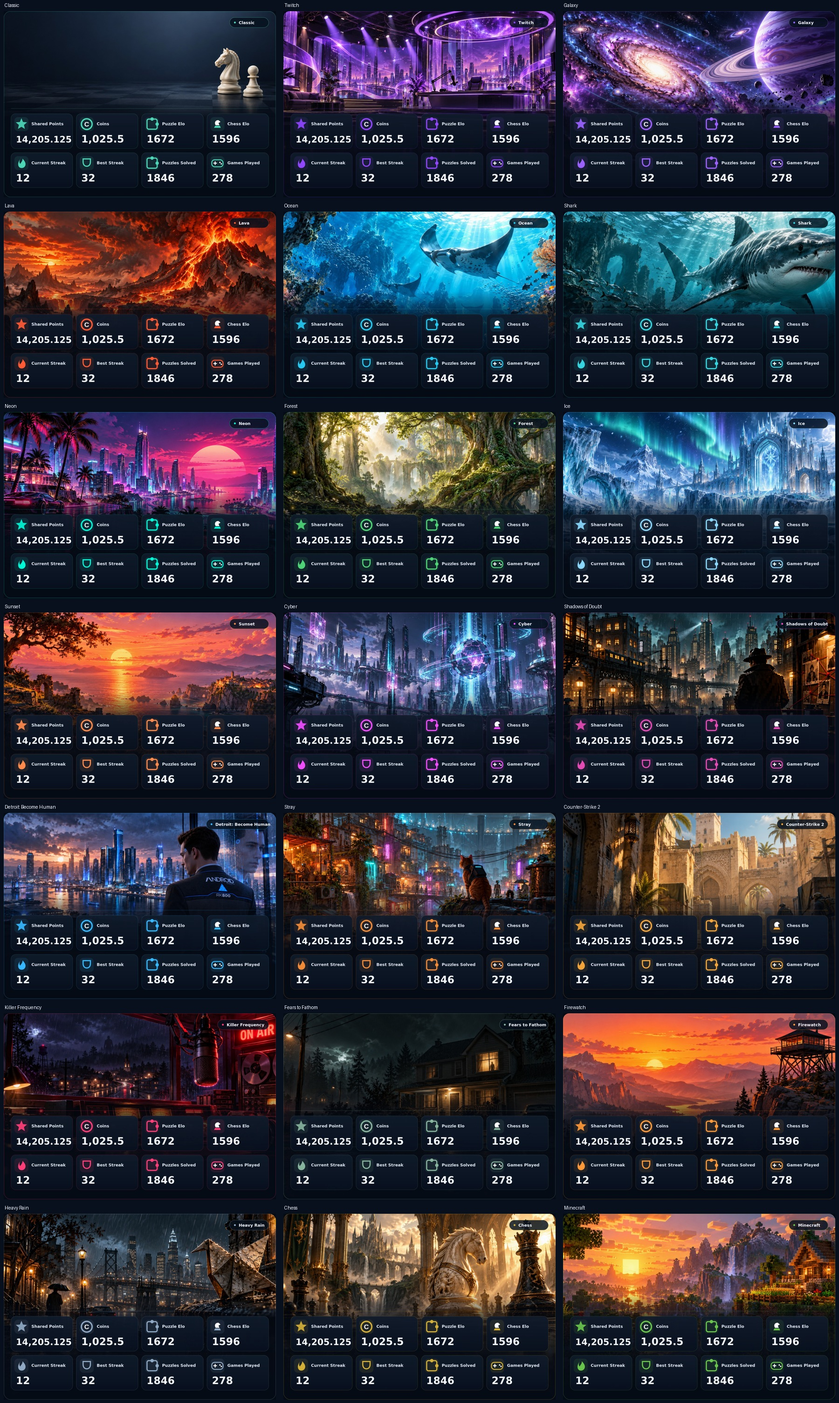
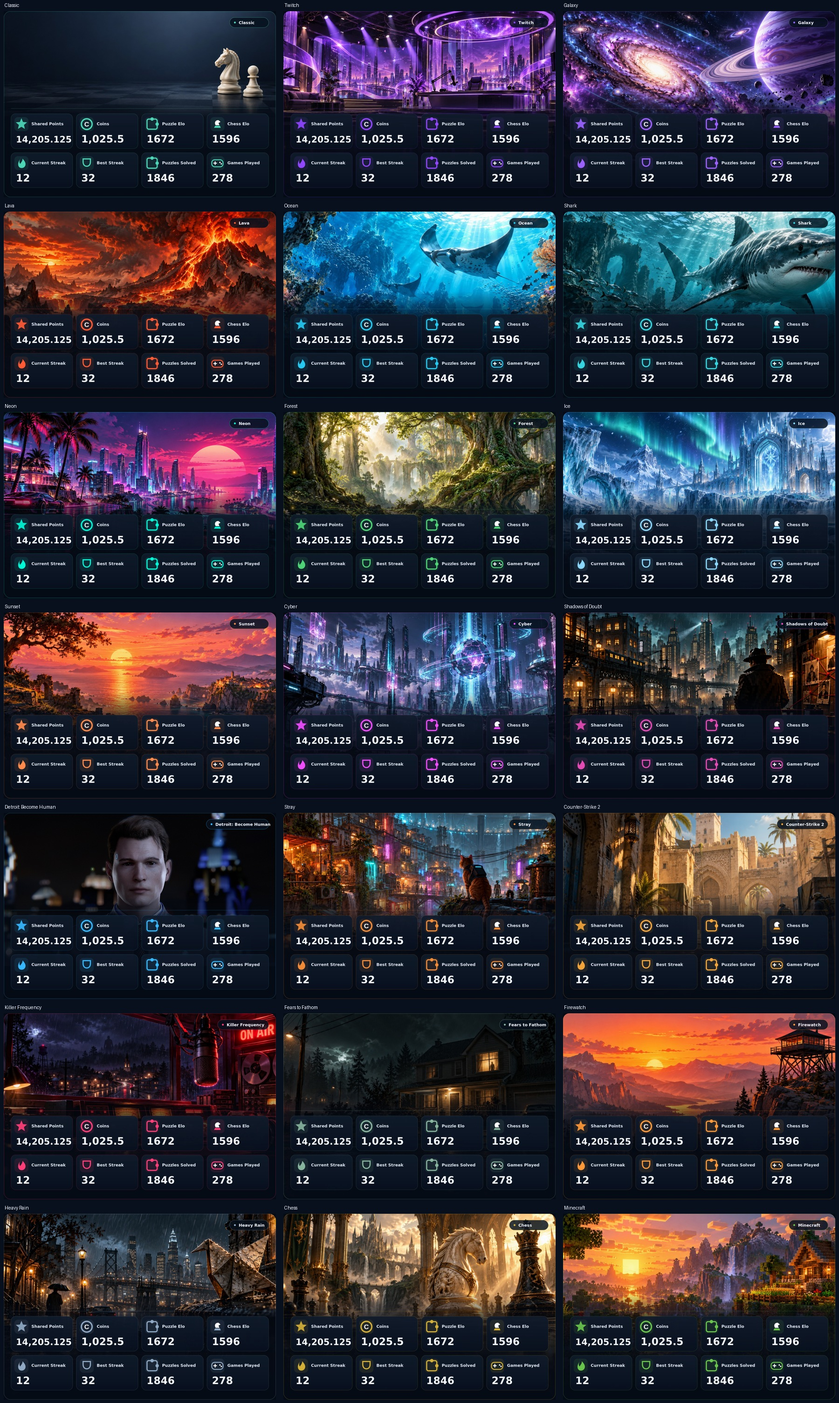
fix: use official in-game Connor portrait for Detroit theme

Changed region(s): [[0.0, 0.5621, 0.3422, 0.6558]]

diff --git a/assets/profile_themes/README.md b/assets/profile_themes/README.md
@@ -1,6 +1,6 @@
 # Profile theme illustrations
 
-These are original generated game-inspired/environmental illustrations, stored locally as optimized JPEG files. They are artwork assets only; no production user data is embedded. `catalog.json` maps the existing theme keys to files without changing theme ownership, prices or unlocks.
+These are generated game-inspired/environmental illustrations, except for Detroit, which uses an official in-game image of Connor. All are stored locally as optimized JPEG files. They are artwork assets only; no production user data is embedded. `catalog.json` maps the existing theme keys to files without changing theme ownership, prices or unlocks.
 
 Art direction:
 
@@ -10,15 +10,17 @@ Art direction:
 - **Killer Frequency:** late-night 1987 radio studio, microphone, mixing desk, and a glowing **ON AIR** sign.
 - **Fears to Fathom:** isolated suburban home at night, a lit window, and unsettling environmental shadows.
 - **Shadows of Doubt:** a rainy voxel city and noir private investigator.
-- **Detroit: Become Human:** Connor in his recognizable RK800 uniform, with a blue temple LED and matching reflected face overlooking the futuristic city.
+- **Detroit: Become Human:** the actual in-game Connor facing the viewer, wearing his RK800 uniform with a blue temple LED against the nighttime city. His face is taken directly from Quantic Dream's official screenshot, without generative repainting.
 - **Counter-Strike 2:** a warm sandstone tactical courtyard and original helmeted operators.
 - **Firewatch:** Wyoming wilderness, warm layered mountains, and a fire lookout tower.
 - **Heavy Rain:** folded paper origami bird, dark city rain, and psychological thriller atmosphere.
 - **Minecraft:** visibly cubic landscape, block house, trees and sunset lighting.
 - Other themes use equally detailed chess, shark, ocean, forest, volcanic, polar, cosmic, synthwave or streaming environments.
 
-The game references were checked against the official Steam descriptions for [Stray](https://store.steampowered.com/app/1332010/), [Killer Frequency](https://store.steampowered.com/app/1903620/), [Fears to Fathom](https://store.steampowered.com/app/1671340/), [Shadows of Doubt](https://store.steampowered.com/app/986130/), [Detroit: Become Human](https://store.steampowered.com/app/1222140/), [Firewatch](https://store.steampowered.com/app/383870/) and [Heavy Rain](https://store.steampowered.com/app/960910/). These images are new illustrations rather than downloaded game screenshots.
+The game references were checked against the official Steam descriptions for [Stray](https://store.steampowered.com/app/1332010/), [Killer Frequency](https://store.steampowered.com/app/1903620/), [Fears to Fathom](https://store.steampowered.com/app/1671340/), [Shadows of Doubt](https://store.steampowered.com/app/986130/), [Detroit: Become Human](https://store.steampowered.com/app/1222140/), [Firewatch](https://store.steampowered.com/app/383870/) and [Heavy Rain](https://store.steampowered.com/app/960910/).
+
+Detroit's source is the [official Connor screenshot](https://www.quanticdream.com/img/uploads/game/page_19/80a6da5f447bae655d36e4f344aac860.jpeg) published in [Quantic Dream's Detroit gallery](https://www.quanticdream.com/en/detroit-become-human). Artwork belongs to its respective rights holders. The local copy retains the complete 1440 × 810 composition, with JPEG compression at quality 95 and metadata removed for file size. No face, costume, scenery or character details were regenerated. The renderer applies its existing stat panels and shading; it needs no network access at runtime.
 
 For replacements, retain the existing keys and use a high-quality wide illustration at least 1200 × 675 pixels. Place key subjects in the upper middle/right region so they remain visible above the stat panels. The renderer caches local asset data and card bytes until the worker restarts; asset changes trigger the Daily Puzzle workflow and offline asset validation. No network access is required for profile backgrounds.
 
-Classic and Detroit use `art_height: 675` in the catalogue to preserve the full illustration width, including both default chess pieces and Connor's reflection. Other theme framing is unchanged. Connor's appearance and RK800 jacket were checked against the official Steam promotional screenshots. The earlier cinematic Classic/Detroit images remain available in commit `bbba94b7d3517b5bcb8850b882440e622fd4ea2b`.
+Classic and Detroit use `art_height: 675` in the catalogue to preserve the full artwork width, including both default chess pieces and Connor's face above the stats. The earlier cinematic Classic/Detroit images remain available in commit `bbba94b7d3517b5bcb8850b882440e622fd4ea2b`; the previous generated Detroit replacement is in commit `4c110d39580eaea29cfbb5edf3549fa02313b2fc`.
